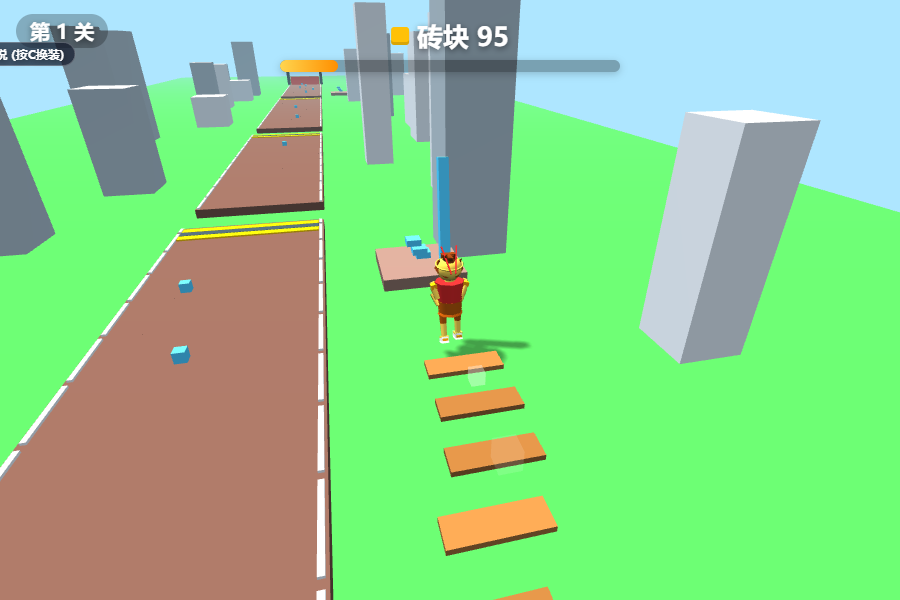
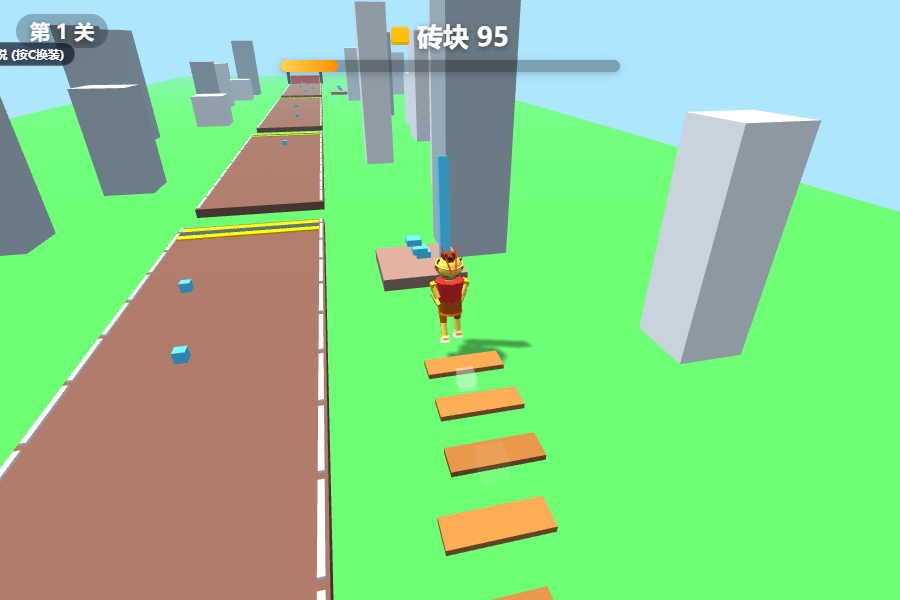
人物系统审计修复(双端): 审计结论=模型(6皮肤/大圣AI Studio规范细节)/状态机(idle-running-bridging-climb-drowned-finished)/捡起(pickupPulse右手探前下捞)/抱起(左手环抱+双手捧握plankMount+甩尾惯性+负重后仰)全部在岗; 补3个表现缺口: ①奖励区结算庆祝跳(bonus重构时弄丢老win()的跳跃,回归修复) ②被撞飞失衡翻滚(util.tweenEulerZ,原直挺挺下沉) ③加速鞋金色尘土(shoeT此前只进速度公式零视觉); 教训: 删注释行尾换行的空操作编辑吞掉下一行,sim编译锁立刻抓住; tsc0

diff --git a/assets/scripts/GameApp.ts b/assets/scripts/GameApp.ts
@@ -23,7 +23,7 @@ import { AudioMgr } from './AudioMgr';
 import { TrackBuilder, RuntimePickup, Opponent } from './TrackBuilder';
 import { CameraFollow } from './CameraFollow';
 import { GameUI } from './GameUI';
-import { tweenPos, clamp } from './util';
+import { tweenPos, tweenEulerZ, clamp } from './util';
 import { adSys, shouldInterstitialAfterWin, AdTelemetry } from './AdMgr';
 
 type State = 'ready' | 'run' | 'fall' | 'win' | 'lose' | 'climb';
@@ -77,6 +77,7 @@ export class GameApp extends Component {
   private offRoad = false; // 当前是否在主路外（铺板模式）
   private plankAcc = 0;    // 累计铺板距离（米）
   private smokeTimer = 0;  // 铺路烟雾生成间隔计时（原版标志性反馈）
+  private shoeDustT = 0;   // 加速鞋尘土生成间隔计时
   private leapGrace = 0;   // 剩余最后一跃距离（米），>0 表示飞跃中不耗板
   private curve: CurveState = { amp: 0, freq: 0.12, phase: 0 }; // 弯道（表现层）
   // 终点倍率奖励区（原版核心计分玩法；M10：S 键回头捡气垛）
@@ -336,6 +337,13 @@ export class GameApp extends Component {
 
     if (this.state === 'run') {
       if (this.shoeT > 0) this.shoeT -= dt;
+      if (this.shoeT > 0) { // 加速鞋视觉：金色尘土
+        this.shoeDustT -= dt;
+        if (this.shoeDustT <= 0) {
+          this.shoeDustT = 0.1;
+          this.track.spawnDust(this.player.position.x, this.player.position.z);
+        }
+      }
       if (this.bridgeT > 0) this.bridgeT -= dt;
       // 提速鞋：终速 ×1.35（可短暂超 maxSpeed，提速感优先；母本 botRun 同口径）
       // 铺捷径加速 ×offRoadBoost（赌板子换速度，原版 Shortcut Run 规则）
@@ -614,6 +622,7 @@ export class GameApp extends Component {
     this.camFollow.addShake(0.12, 0.2);
     const p = o.root.position;
     tweenPos(o.root, 0.8, new Vec3(p.x, p.y - 6, p.z));
+    tweenEulerZ(o.root, 1.3 + Math.random() * 0.5, 0.5); // 被撞飞失衡翻滚（非直挺挺下沉）
   }
 
   // 孤岛：踩上就收板（原版经典的风险回报机制）
@@ -684,6 +693,11 @@ export class GameApp extends Component {
     const best = this.prog.state().best[this.levelNum];
     this.ui?.setResult(true, r.stars, timeSec, score, `${best.stars}★ ${best.time}s`);
     this.ui?.showHint(`第 ${this.bonusRank} 名 · ×${b.multiplier} 倍率！得分 ${score}`);
+    // 庆祝跳（老 win() 有，bonus 路径补齐——回归修复）
+    const p0 = this.player.position;
+    tweenPos(this.player, 0.25, new Vec3(p0.x, p0.y + 0.7, p0.z), () => {
+      tweenPos(this.player, 0.25, new Vec3(p0.x, p0.y, p0.z));
+    });
     console.log(`[ShortcutRun] 奖励区结算：第${this.bonusRank}名 ×${b.multiplier} 得分 ${score}（${bonusStars(b)}星线）`);
     // 插屏节流：前 3 关不弹；通关 L3/L6/…（进 L4/L7 前）各 1 次（k1 §4）
     if (shouldInterstitialAfterWin(this.levelNum)) {

diff --git a/web-preview/index.html b/web-preview/index.html
@@ -1386,6 +1386,23 @@ function spawnSplash(x, z) {
     });
   }
 }
+// 加速鞋尘土：shoeT>0 时每 0.1s 脚边两颗金色小点（shoeT 此前进速度公式、无任何视觉）
+let shoeDustT = 0;
+function spawnShoeDust() {
+  for (let i = 0; i < 2; i++) {
+    const m = new THREE.Mesh(BOX, new THREE.MeshBasicMaterial({
+      color: 0xffd54f, transparent: true, opacity: 0.9, depthWrite: false,
+    }));
+    const s = 0.06 + Math.random() * 0.04;
+    m.scale.set(s, s, s);
+    m.position.set(player.position.x + (Math.random() - 0.5) * 0.5, 0.08, player.position.z - 0.2);
+    scene.add(m);
+    particles.push({
+      m, life: 0.35 + Math.random() * 0.15,
+      vx: (Math.random() - 0.5) * 1.2, vy: 1.6 + Math.random() * 1.2, vz: (Math.random() - 0.5) * 1.2,
+    });
+  }
+}
 // J4 冲线彩带：终点上方撒一把彩色小纸片，飘落销毁（一次性氛围）
 function spawnConfetti(z) {
   const colors = [0xff5252, 0xffd740, 0x69f0ae, 0x40c4ff, 0xe040fb];
@@ -1844,6 +1861,9 @@ function finishBonus() {
     '再来一局', () => { resultScreen.style.display = 'none'; syncLevel(); });
   console.log(`[ShortcutRun] 结算: 第${bonusRank}名 ×${bonusState.multiplier} 得分 ${score} ${stars}星`);
   sfx.win();
+  // 庆祝跳（老 win() 有，bonus 路径补齐——回归修复）
+  const y0 = player.position.y;
+  tweenTo(player.position, 'y', y0 + 0.7, 0.25, () => tweenTo(player.position, 'y', y0, 0.25));
 }
 
 // ===== AI 对手竞速（原版标志性机制复刻） =====
@@ -1944,6 +1964,8 @@ function knockOut(o, why) {
   shake(0.12, 0.2);
   const p = o.rig.position;
   tweenTo(o.rig.position, 'y', p.y - 6, 0.8);
+  // 被撞飞失衡翻滚（原版退场姿态，非直挺挺下沉）
+  tweenTo(o.rig.rotation, 'z', 1.3 + Math.random() * 0.5, 0.5);
 }
 
 // ============ 主循环 ============
@@ -1970,6 +1992,10 @@ function loop() {
 
     if (state === 'run') {
       if (shoeT > 0) shoeT -= dt;
+      if (shoeT > 0) { // 加速鞋视觉：金色尘土
+        shoeDustT -= dt;
+        if (shoeDustT <= 0) { shoeDustT = 0.1; spawnShoeDust(); }
+      }
       if (speedDip > 0) speedDip -= dt;
       if (bridgeT > 0) bridgeT -= dt;
       speed = Math.min(cfg.maxSpeed, cfg.runSpeed + bricks * cfg.speedPerBrick) * (shoeT > 0 ? 1.35 : 1) * (offRoad ? cfg.offRoadBoost : 1);

diff --git a/assets/scripts/TrackBuilder.ts b/assets/scripts/TrackBuilder.ts
@@ -139,6 +139,21 @@ export class TrackBuilder extends Component {
     }
   }
 
+  // 加速鞋尘土：shoeT>0 时脚边金色小点（此前 shoeT 只进速度公式、无任何视觉）
+  spawnDust(x: number, z: number, n = 2): void {
+    for (let i = 0; i < n; i++) {
+      const s = 0.06 + Math.random() * 0.04;
+      const p = this.box('warn1', new Vec3(s, s, s),
+        new Vec3(x + (Math.random() - 0.5) * 0.5, 0.08, z - 0.2), this.node);
+      const dur = 0.35 + Math.random() * 0.15;
+      tweenPos(p, dur, new Vec3(
+        p.position.x + (Math.random() - 0.5) * 0.6,
+        p.position.y + 1 + Math.random() * 0.8,
+        p.position.z + (Math.random() - 0.5) * 0.6,
+      ), () => p.destroy());
+    }
+  }
+
   // ===== 终点倍率奖励区（原版核心计分玩法，M10 含回头气垛） =====
   // entryZ = 玩家冲过终点的 z（入口）。倍率台青色悬浮台+白色倍率牌；
   // 气垛三块叠：入口后褐色（回头才拿得到），前方青色（冲刺路上顺手）

diff --git a/assets/scripts/util.ts b/assets/scripts/util.ts
@@ -14,12 +14,23 @@ export function tweenPos(node: Node, dur: number, to: Vec3, onDone?: () => void)
 
 export function tweenScale(node: Node, dur: number, to: Vec3, onDone?: () => void): void {
   const cur = new Vec3();
-  node.getScale(cur);
+  node.getPosition(cur);
   const tw = tween(cur).to(dur, to, {
     onUpdate: (v: Vec3) => { if (node.isValid) node.setScale(v); },
   });
   if (onDone) tw.call(() => { if (node.isValid) onDone(); });
   tw.start();
+}
+
+// 绕 Z 轴翻滚 tween（被撞飞失衡姿态用）；node 可能已被销毁，onUpdate 必须 isValid 守卫
+export function tweenEulerZ(node: Node, to: number, dur: number): void {
+  const obj = { z: node.eulerAngles.z };
+  tween(obj).to(dur, { z: to }, {
+    onUpdate: (v: { z: number }) => {
+      if (!node.isValid) return;
+      node.eulerAngles = new Vec3(node.eulerAngles.x, node.eulerAngles.y, v.z);
+    },
+  }).start();
 }
 
 export function clamp(v: number, min: number, max: number): number {

diff --git a/docs/AI-HANDOFF.md b/docs/AI-HANDOFF.md
@@ -167,3 +167,8 @@ G1 门禁：用户试玩“还想再来一把”= 立项。门禁不过，谁都
   - **C3**：bridging 时 head 上抬 0.22rad（双端 animateChar/CharacterRig）。
   - **回归**：tsc 0 / smoke / sim 38 / verify-web **22/22**（新增 bonus-pads-14 / rank-base-lock）；bonus-balance 曲线重跑。
   - replica-gap 剩余：M9 分支路径（P2 大工程）/ C1 低机位（待 G1 手感）。
+- 2026-09-23 | step-5-preview | **人物系统审计 + 3 个角色表现缺口修复（双端）**：
+  - 审计结论（已逐条验证）：**模型/状态机/捡起/抱起都已做**——6 套皮肤（大圣 AI Studio 规范：紧箍 specialGold/虎皮赭石裙/雉翎/飘带/腮红/微笑/步云履/锁子甲）、状态 idle/running/bridging/climb/drowned/finished、pickupPulse 右手探前下捞（外展避遮挡）、左手环抱+plankMount 双手捧握+堆叠可见性+甩尾惯性+负重后仰、铺板推掷/转向侧倾/脚踝滚动全部双端在岗。
+  - **修的 3 个缺口**：①奖励区结算无庆祝跳——我此前重构 bonus 路径把老 win() 的跳跃弄丢了（回归，双端补）；②被撞飞无专属姿态——knockOut 原为直挺挺下沉，加失衡翻滚（Cocos 新增 util.tweenEulerZ）；③加速鞋零视觉——shoeT 只进速度公式，补金色尘土粒子（web 粒子池/Cocos spawnDust，每 0.1s 两颗）。
+  - 教训：一次“删注释行尾换行”的空操作编辑把注释下一行函数头吞掉，sim 的 whole-page compile lock 立刻抓到（Unexpected identifier 'let'）——该锁价值再次兑现。
+  - 回归：tsc 0 / smoke / sim 38 / verify-web 22/22。
